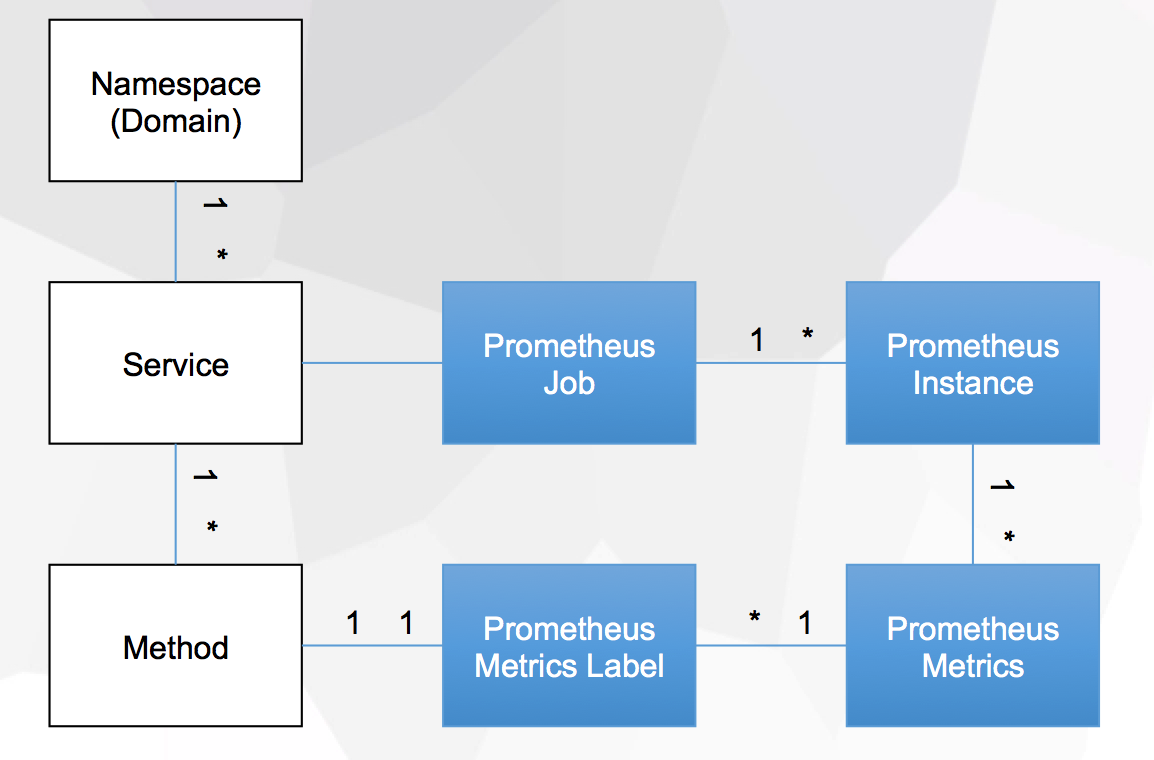
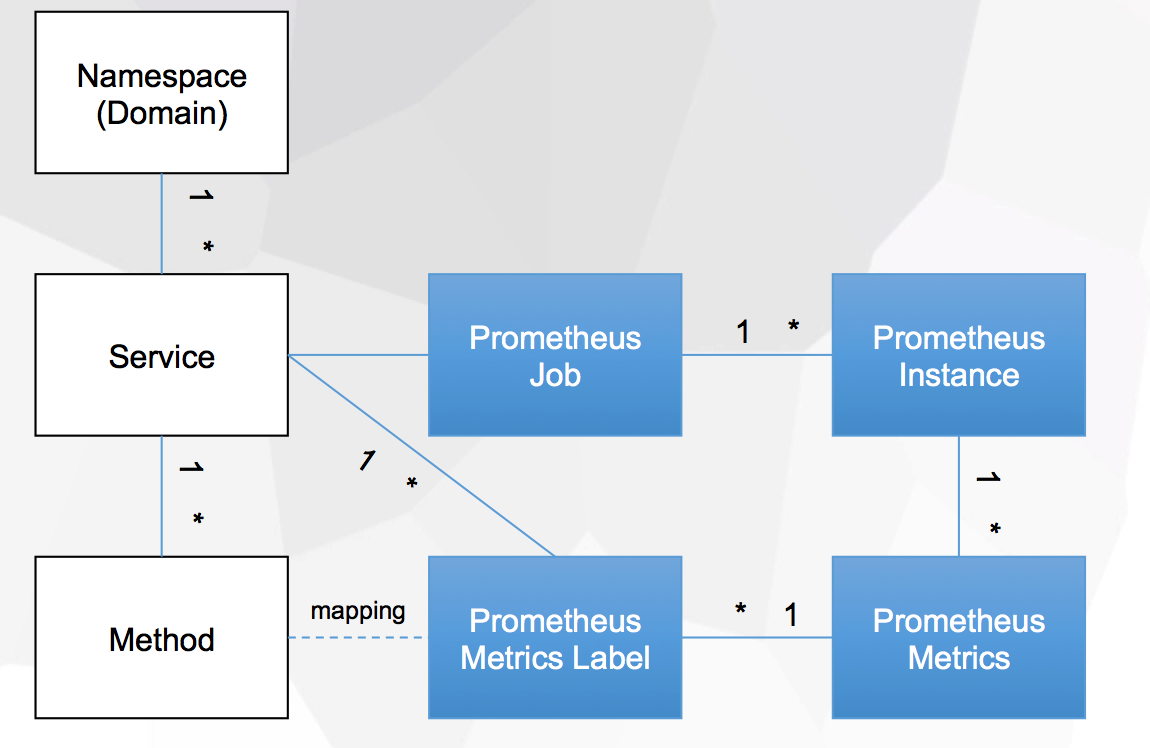
update

diff --git a/README.md b/README.md
@@ -5,6 +5,18 @@ Metrics monitoring solution based on Prometheus
 
 ![Architecture](https://github.com/cx580/Metrics_Project/blob/master/pic/architecture.png)
 
+### User Stories
+
+- 最为运维人员，无需再给开发提供手段登录到对应的机器捞取日志来统计业务指标。
+- 最为运维人员，期望所有的应用的业务指标都会自动收集和分类存储到中央的系统中，以便开发和运维使用
+- 最为运维人员，能及时通知业务人员业务发生的异常情况
+- 最为运维人员，可以方便的新建不同纬度的业务指标
+- 最为运维人员，可以实时追踪指标的变化
+- 最为运维人员，能够自动捕获新加入的系统和组件的指标（Optional）
+- 作为开发人员，可以通过统一的入口获取不同纬度(域／服务／实例（ip）)的业务指标
+- 作为开发人员，可以及时获得业务指标异常的告警
+
+
 ### Domain Model
 
 ![Domain Model](https://github.com/cx580/Metrics_Project/blob/master/pic/domain.png)
@@ -12,3 +24,15 @@ Metrics monitoring solution based on Prometheus
 ### Metrics and label naming spec
 
 Refer to [Metric naming](https://prometheus.io/docs/practices/naming/)
+
+### Common labels in each metrics
+
+- Namespace / Domain name
+- Service name
+- Method name
+- Channel name
+
+![Common Labe](https://github.com/cx580/Metrics_Project/blob/master/pic/label.png)
+
+
+
